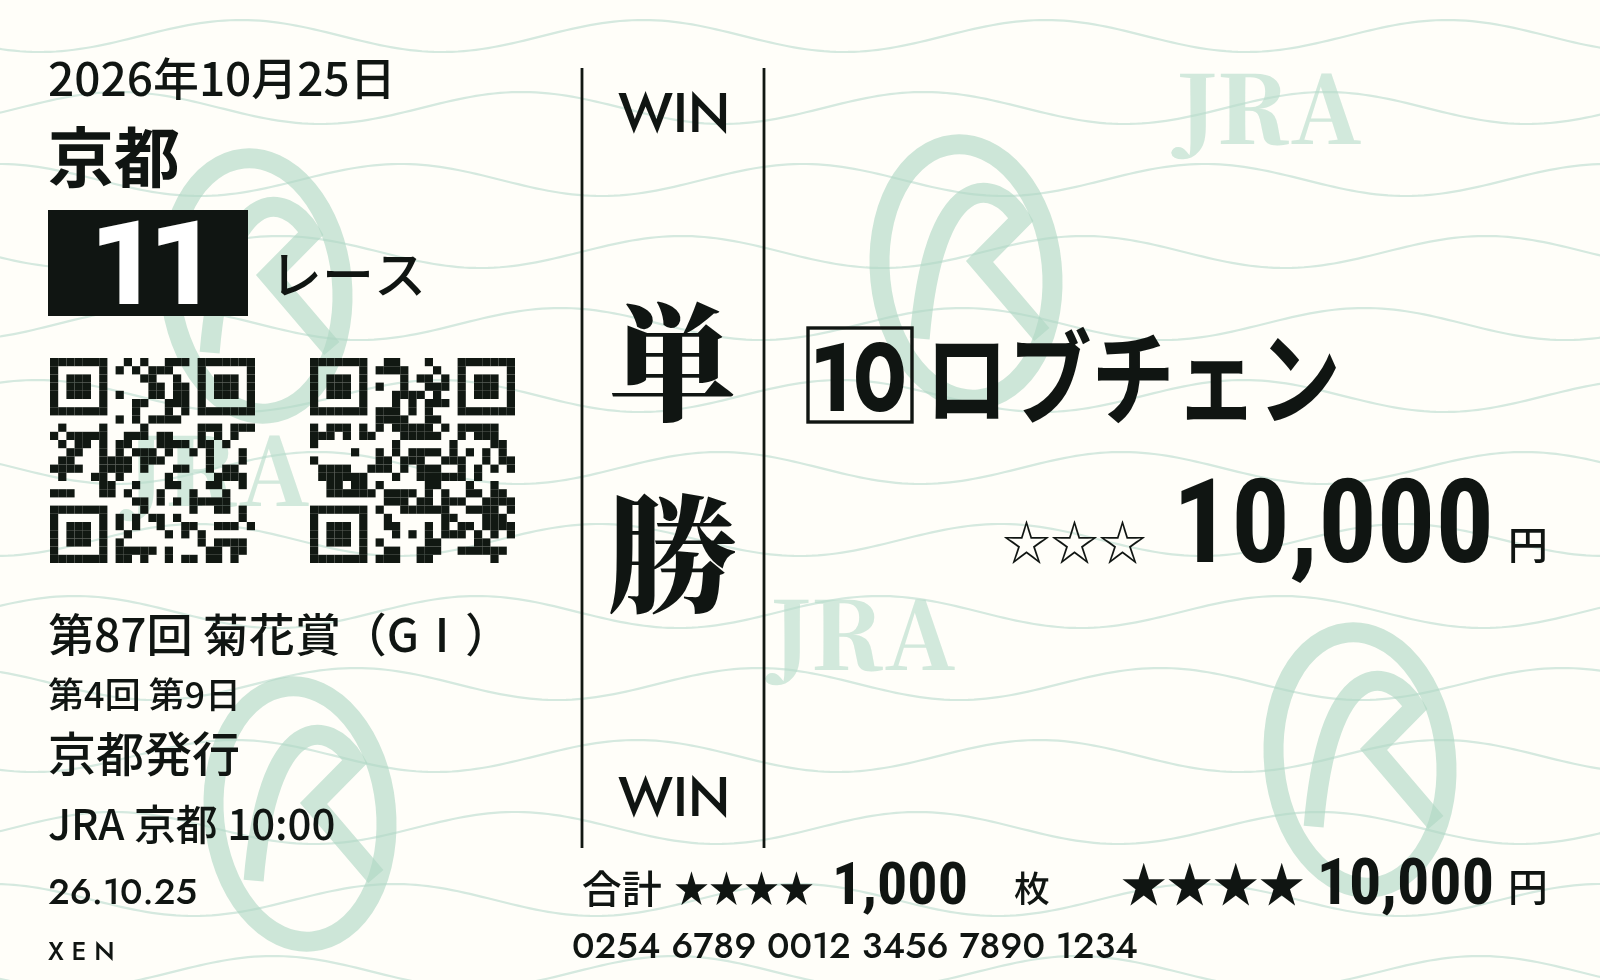
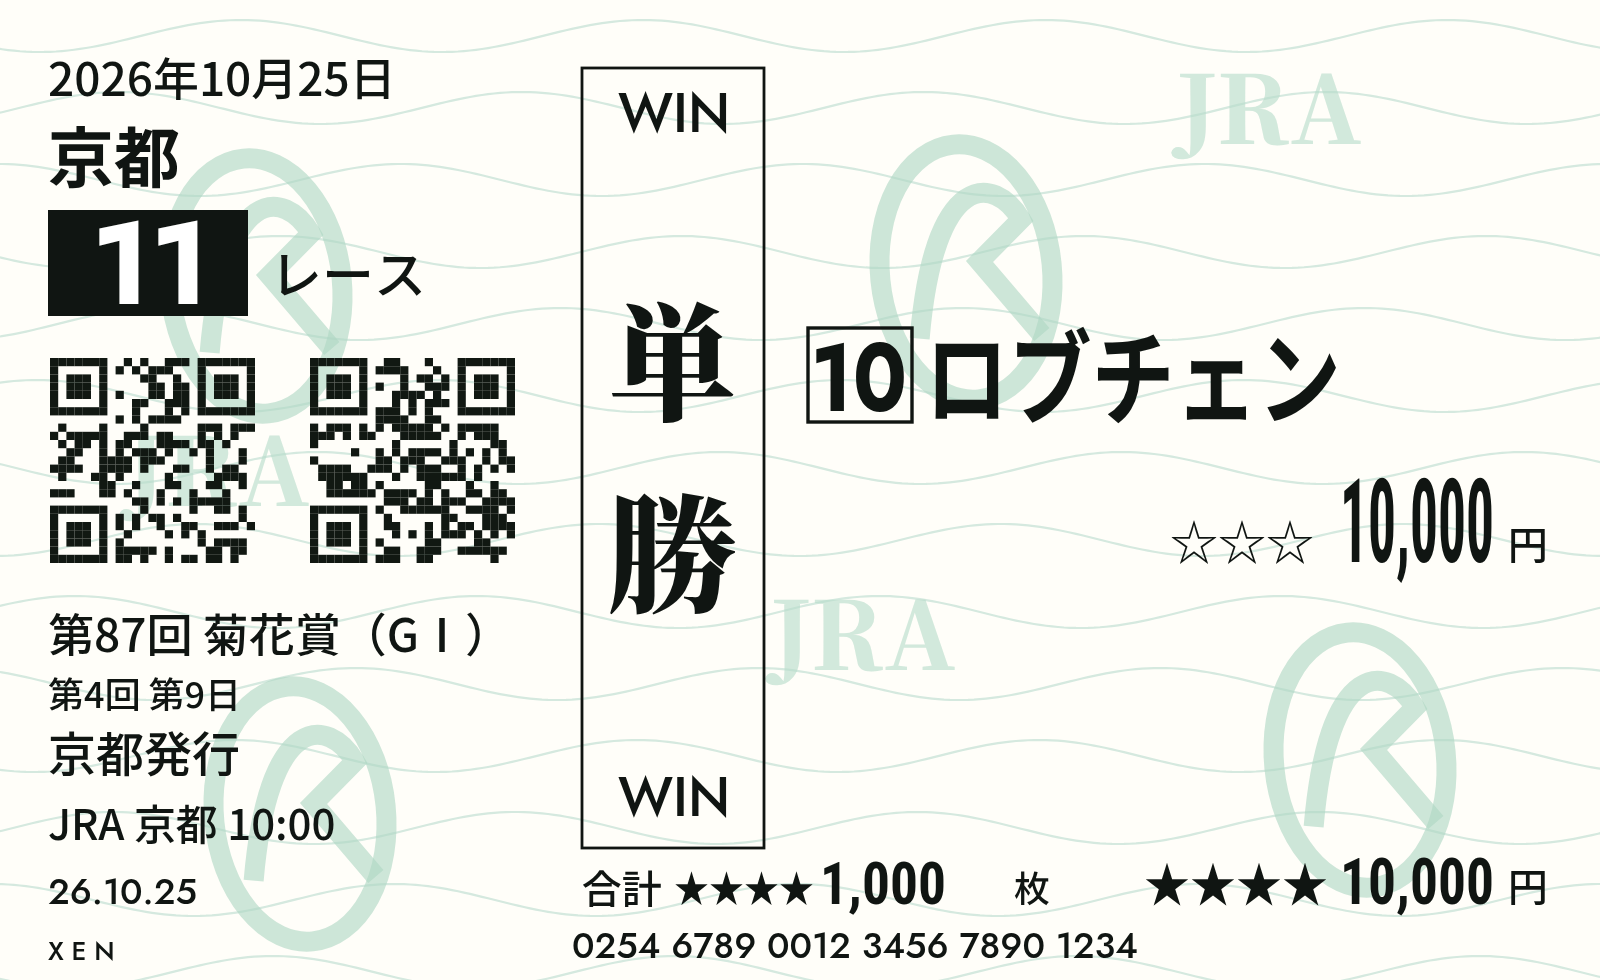
Complete band borders and use fixed-width amount digits

diff --git a/app.js b/app.js
@@ -68,12 +68,29 @@
     ctx.fillText(value,m.actualBoundingBoxLeft,(m.actualBoundingBoxAscent-m.actualBoundingBoxDescent)/2);
     ctx.restore();
   }
-  function money(amount,right,y,size=45,maxWidth=285,starCount=3,star='☆'){
-    ctx.save();setFont(size,'money',700);const s=number(amount), yen=20, gap=7;
-    const reserve=starCount===4?100:40;
-    const width=Math.min(ctx.measureText(s).width,maxWidth-yen-reserve), left=right-yen-gap-width;
-    text(s,left,y,size,'money',700,width);text('円',right-yen,y-1,20,'sans',500);
-    const starLeft=Math.max(right-maxWidth,left-(starCount===4?98:85));
+  const digitCell=14, commaCell=7;
+  function numericWidth(value){return [...String(value)].reduce((width,ch)=>width+(ch===','?commaCell:digitCell),0);}
+  function numericText(value,x,y,size){
+    ctx.save();setFont(size,'money',700);ctx.fillStyle='#101512';ctx.textBaseline='alphabetic';
+    // One shared advance for every digit, independent of its value or the number of digits.
+    const scaleX=digitCell/ctx.measureText('0').width;
+    for(const ch of String(value)){
+      const cell=ch===','?commaCell:digitCell;
+      ctx.save();ctx.translate(x+cell/2,y);ctx.scale(scaleX,1);
+      ctx.fillText(ch,-ctx.measureText(ch).width/2,0);ctx.restore();x+=cell;
+    }
+    ctx.restore();
+  }
+  function money(amount,right,y,size=45,maxWidth=285,starCount=3,star='☆',label=null){
+    ctx.save();const s=number(amount), yen=20, gap=7;
+    const left=right-yen-gap-numericWidth(s);
+    numericText(s,left,y,size);text('円',right-yen,y-1,20,'sans',500);
+    let starLeft=Math.max(right-maxWidth,left-(starCount===4?98:85));
+    if(label){
+      text(label,521,y-2,23,'sans',500,61);setFont(23,'sans',500);
+      const labelRight=521+ctx.measureText(label).actualBoundingBoxRight;
+      starLeft=labelRight+(starLeft-labelRight)/2;
+    }
     text(star.repeat(starCount),starLeft,y-1,24,'number',500,Math.max(20,left-starLeft-6));ctx.restore();
   }
   // Fixed decoration: paint only dark modules so every light area stays transparent.
@@ -124,7 +141,7 @@
       centeredText('単',x+w/2,181,64,'serif',900,78);centeredText('勝',x+w/2,277,64,'serif',900,78);
       centeredText('WIN',x+w/2,399,27,'number',500,w-12);
     }
-    line(x,top,x,bottom,1.4);line(x+w,top,x+w,bottom,1.4);
+    rect(x,top,w,bottom-top,1.4);
   }
   function drawTicket(d){
     ctx.setTransform(2,0,0,2,0,0);ctx.clearRect(0,0,800,490);drawBackground();
@@ -147,12 +164,12 @@
     horseName(d.horseName,467,horseTop-.85,48.7,305);
     if(d.type==='cheer'){
       money(d.amount,774,274,51,282);
-      text('単勝',521,329,23,'sans',500,61);money(d.amount,774,331,36,188);
-      text('複勝',521,374,23,'sans',500,61);money(d.amount,774,376,36,188);
+      money(d.amount,774,331,36,188,3,'☆','単勝');
+      money(d.amount,774,376,36,188,3,'☆','複勝');
     }else money(d.amount,774,281,58,314);
     const total=d.amount*(d.type==='cheer'?2:1), count=total/10;
     text('合計',291,452,20,'sans',500);text('★★★★',337,451,19,'number',500,70);
-    text(number(count),416,452,30,'money',700,85);text('枚',507,451,18,'sans',500);
+    numericText(number(count),410,452,30);text('枚',507,451,18,'sans',500);
     money(total,774,452,32,242,4,'★');
     text(d.serial,286,479,18,'number',500,489);
     text('X E N',24,480,13,'number',500,200);

diff --git a/docs/VERIFICATION.md b/docs/VERIFICATION.md
@@ -42,3 +42,11 @@
 - 枚数はユーザー指定の計算式「合計金額÷10」を使用。
 - 合計行全体を券種帯の下へ移動し、管理番号もその下へ調整。
 - Chromiumで3券種と100円・10,000円・999,900円をPNG保存し、星の種類・個数、枚数計算、合計行の字形が帯より下にあることと最大額の収まりを確認。
+
+## 帯の枠・桁幅・小計の調整（2026-10-19）
+
+- 中央帯の左右だけだった枠線を、上下を含む四辺へ修正。全券種で帯の四辺を画素で確認。
+- 応援馬券の単勝・複勝ラベルから白抜き星までの距離を半分に調整。
+- 金額と枚数の数字は1桁14論理px、カンマは7論理pxの固定セルで描画。桁数による文字列全体の縮小を廃止。
+- 馬名の右下の小計は、合計額と同じ桁幅で高さを出して縦長に表示。
+- Chromiumで3券種と100円・10,000円・999,900円を確認。数字の固定幅と券種名・星の距離を描画座標で検証し、各券種のPNG保存と最大額の収まりを確認。
